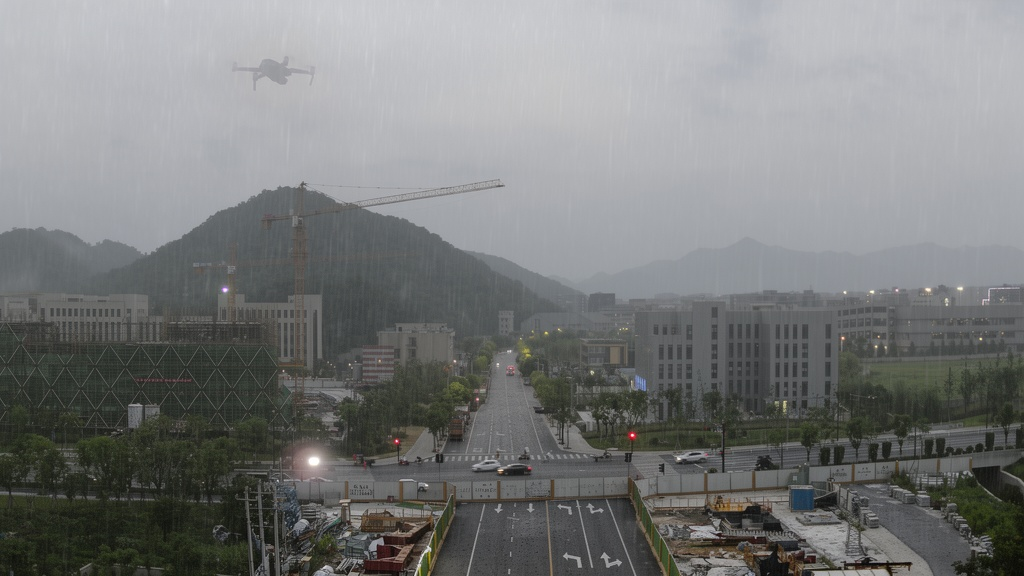
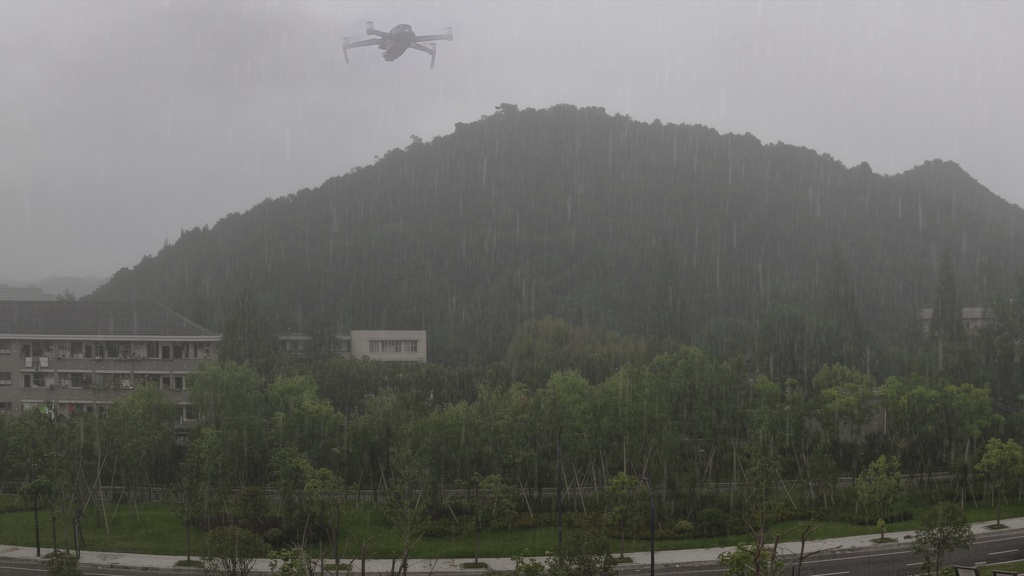
Update materials

diff --git a/generation/examples/README.md b/generation/examples/README.md
@@ -22,7 +22,7 @@ Rebuild the workflow image with `python tools/render_examples.py` from `generati
 
 | Condition | Source ID | Source | Final |
 | --- | --- | --- | --- |
-| Rain | F_0102954 | [image](gallery/rain/source.jpg), [annotation](gallery/rain/source.xml) | [image](gallery/rain/final.jpg), [annotation](gallery/rain/final.xml) |
+| Rain | A_0100439 | [image](gallery/rain/source.jpg), [annotation](gallery/rain/source.xml) | [image](gallery/rain/final.jpg), [annotation](gallery/rain/final.xml) |
 | Snow | A_0106838 | [image](gallery/snow/source.jpg), [annotation](gallery/snow/source.xml) | [image](gallery/snow/final.jpg), [annotation](gallery/snow/final.xml) |
 | Fog | A_0106837 | [image](gallery/fog/source.jpg), [annotation](gallery/fog/source.xml) | [image](gallery/fog/final.jpg), [annotation](gallery/fog/final.xml) |
 | Dust | H_0103862 | [image](gallery/dust/source.jpg), [annotation](gallery/dust/source.xml) | [image](gallery/dust/final.jpg), [annotation](gallery/dust/final.xml) |
